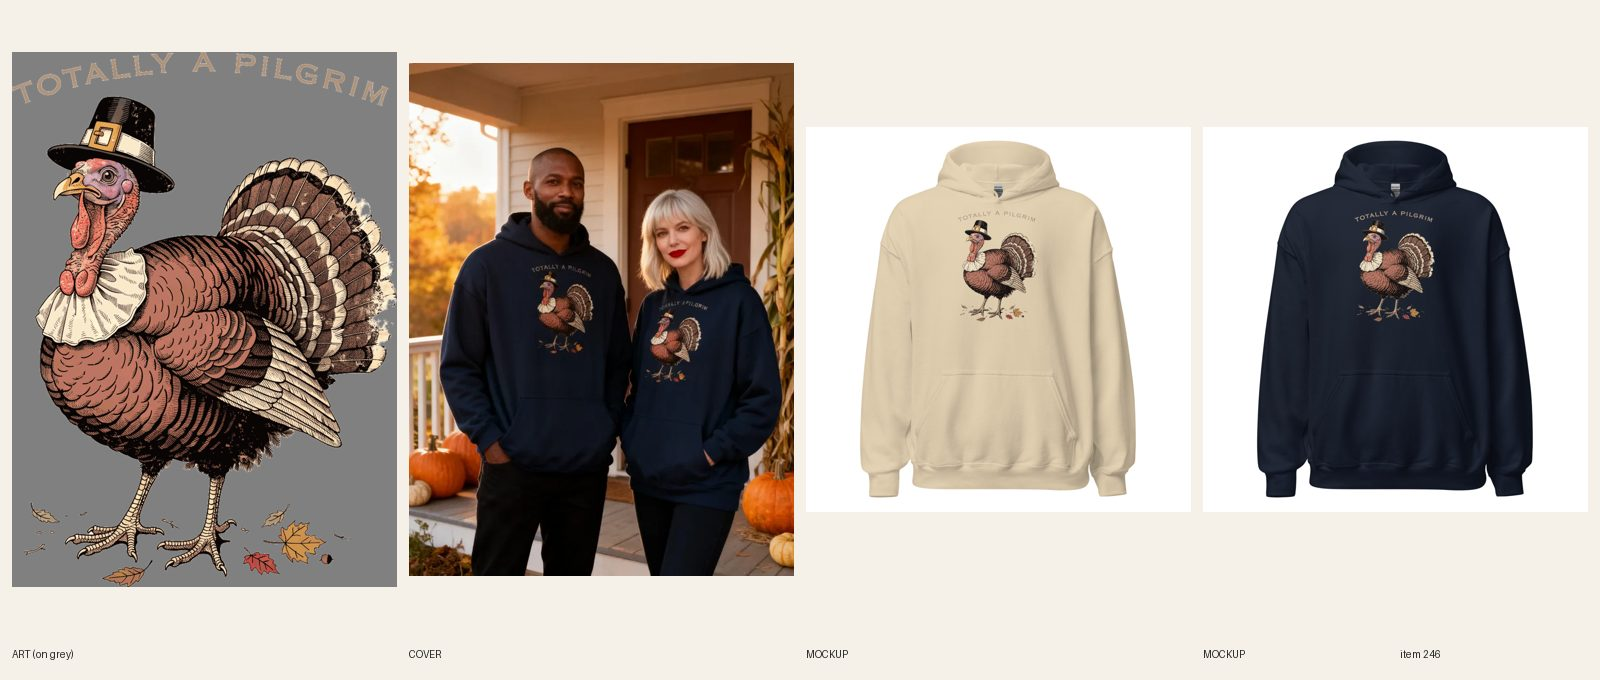
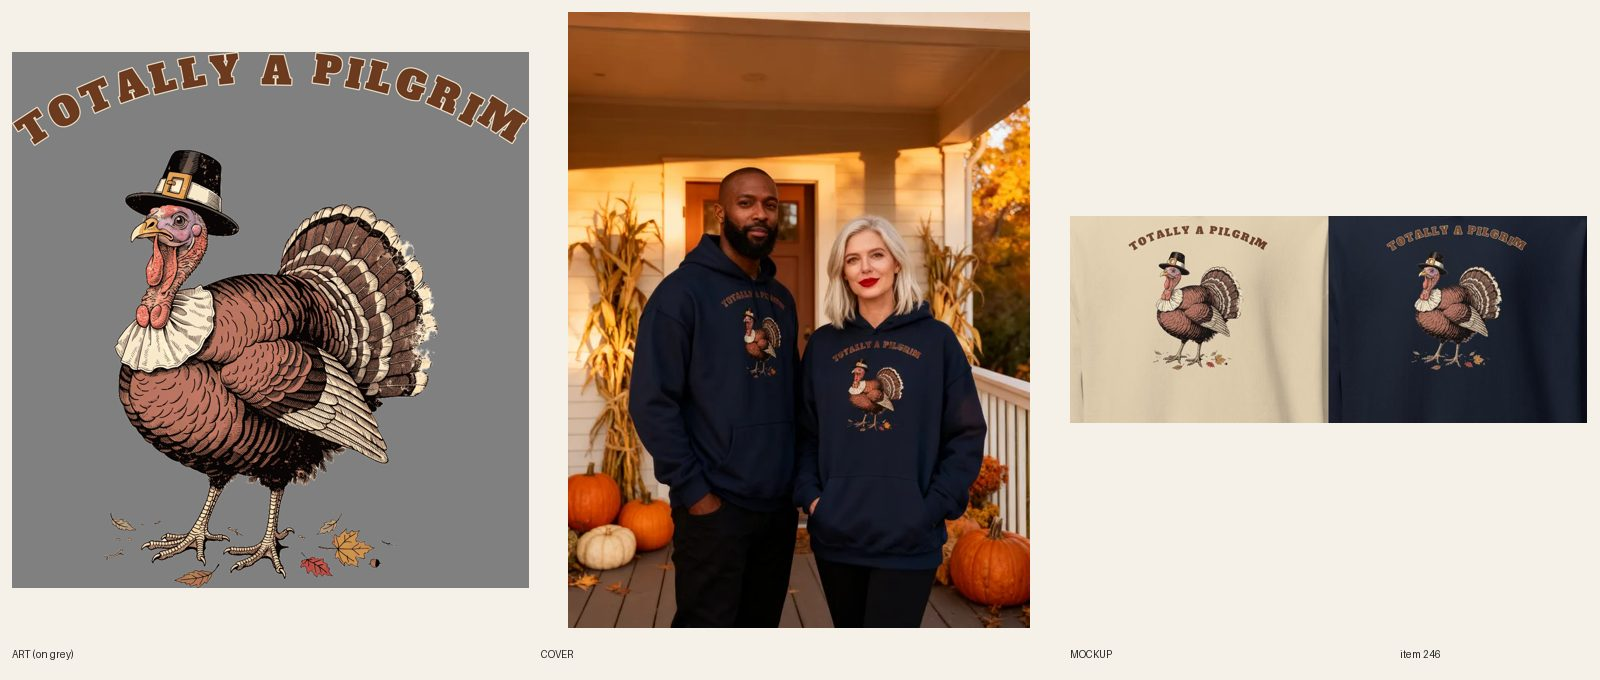
[A] 246 Pilgrim hoodie redo built (resync running)

diff --git a/src/data/covers.ts b/src/data/covers.ts
@@ -248,7 +248,7 @@ export const covers: Record<string, { src: string; alt: string }> = {
   'womens-embroidered-whisk-taker-matcha-crewneck-sweatshirt': { src: '/covers/womens-embroidered-whisk-taker-matcha-crewneck-sweatshirt.webp', alt: 'Woman in glasses wearing a Sand embroidered Whisk Taker matcha crewneck sweatshirt at a bright neighborhood café counter beside a matcha latte' },
   'womens-christmas-nanas-cookies-graphic-tee': { src: '/covers/womens-christmas-nanas-cookies-graphic-tee.webp', alt: 'Woman in her late 50s with salt-and-pepper hair in a short layered cut in a heather grey Nana\'s Cookies Christmas tee in a dining room with a plate of cookies and a lit tree' },
   'womens-embroidered-morel-support-mushroom-crewneck-sweatshirt': { src: '/covers/womens-embroidered-morel-support-mushroom-crewneck-sweatshirt.webp', alt: 'Woman with an auburn shag wearing a Sand embroidered Morel Support mushroom crewneck sweatshirt at an autumn wooded trailhead with a woven basket at her side' },
-  'unisex-thanksgiving-totally-a-pilgrim-hoodie': { src: '/covers/unisex-thanksgiving-totally-a-pilgrim-hoodie.webp', alt: 'Man and woman in matching navy Totally a Pilgrim turkey hoodies with the hoods visible on a farmhouse porch in late fall with pumpkins and corn stalks at golden hour, hands in their pockets' },
+  'unisex-thanksgiving-totally-a-pilgrim-hoodie': { src: '/covers/unisex-thanksgiving-totally-a-pilgrim-hoodie.webp', alt: 'Man and woman in matching navy Totally a Pilgrim turkey hoodies with the hoods visible on a farmhouse porch in late fall with pumpkins and corn stalks' },
   'womens-christmas-snow-problem-graphic-tee': { src: '/covers/womens-christmas-snow-problem-graphic-tee.webp', alt: 'Woman in her early 30s with a natural afro puff and gold statement earrings in a white Snow Problem plaid Christmas graphic tee on a snowy small-town main street with lit shop windows, shopping bags at her hip' },
   'womens-christmas-snow-problem-crewneck-sweatshirt': { src: '/covers/womens-christmas-snow-problem-crewneck-sweatshirt.webp', alt: 'Woman in her mid 20s with long wavy dark hair in a side part and a nose stud in a white Snow Problem plaid Christmas crewneck sweatshirt at an outdoor ice rink at dusk with string lights and a big tree, hands in her pockets' },
   'womens-thanksgiving-spill-the-gravy-graphic-tee': { src: '/covers/womens-thanksgiving-spill-the-gravy-graphic-tee.webp', alt: 'Woman in her late 30s with big shoulder-length curls with honey-brown highlights and stacked gold bangles laughing in a heather grey Spill the Gravy Thanksgiving graphic tee at a candlelit Thanksgiving dinner table with a roast turkey' },

diff --git a/docs/pipeline/246-thanksgiving-hoodie-totally-a-pilgrim.md b/docs/pipeline/246-thanksgiving-hoodie-totally-a-pilgrim.md
@@ -1,4 +1,4 @@
-status: REDO
+status: BUILDING [A] 2026-10-17 22:15 UTC
 lane: A
 type: twin
 id: 246
@@ -26,3 +26,4 @@ handle: unisex-thanksgiving-totally-a-pilgrim-hoodie
   2. R5.3.5: the tan lettering nearly vanishes on Sand at phone size (mockup 1). Darker brown ink, or keep tan only on Navy with a separate darker file for Sand.
   3. R5.3.2: FW 1151 leaves the print small for a hoodie chest; go to about FW 1400 so the turkey and the line fill the chest.
   4. Tags: add thanksgiving (holiday tag) so it can feed a Thanksgiving page; keep no christmas-hoodies. New file, re-link both colors, new mockups, new cover from the new Navy mockup (keep registry #419/#420, the porch is good), then REVIEW.
+- 2026-10-17 22:15 UTC builder [A] REDO 246: (1) Lettering: erased the typeset arched line; re-set TOTALLY A PILGRIM in Alfa Slab One, warm brown #6b3a1f with a cream outline (reads on Sand and Navy), gentle arch, worn speckle. (2) Width: the old file was 3600x5002 at FW 1151; reshaped (turkey 3050 px tall + 3600 px wide lettering band) to 3600x3734 and printed at FW 1500 TOP 0 (about 10.4 in tall; the director's 'about 1400' is below the R5.3.2 floor of 1500). New Printful file 1088460654. (3) Tags: thanksgiving + graphic-hoodies-for-men added (unisex hoodie). Copy: art paragraph (brown capitals, no 'same art as the tee'), FAQ 5 x 40-60 words with order-by about Nov 12. Mockups attached for Sand and Navy + Sand back. (4) Cover: regs 419+420 (man and woman, porch), Navy mockup as --design. 3 attempts (R6.9 REDO extra): try 1 kept (both prints present; the man's drawstrings cross the end of his line so PILGRIM reads soft on him, woman's reads clearly); try 2 put the man in a crewneck (wrong garment); try 3 left the man's chest blank. Director decides whether to accept or REDO the cover. fal ~$0.12. Resync running (12 variants): REVIEW at 12/12.
